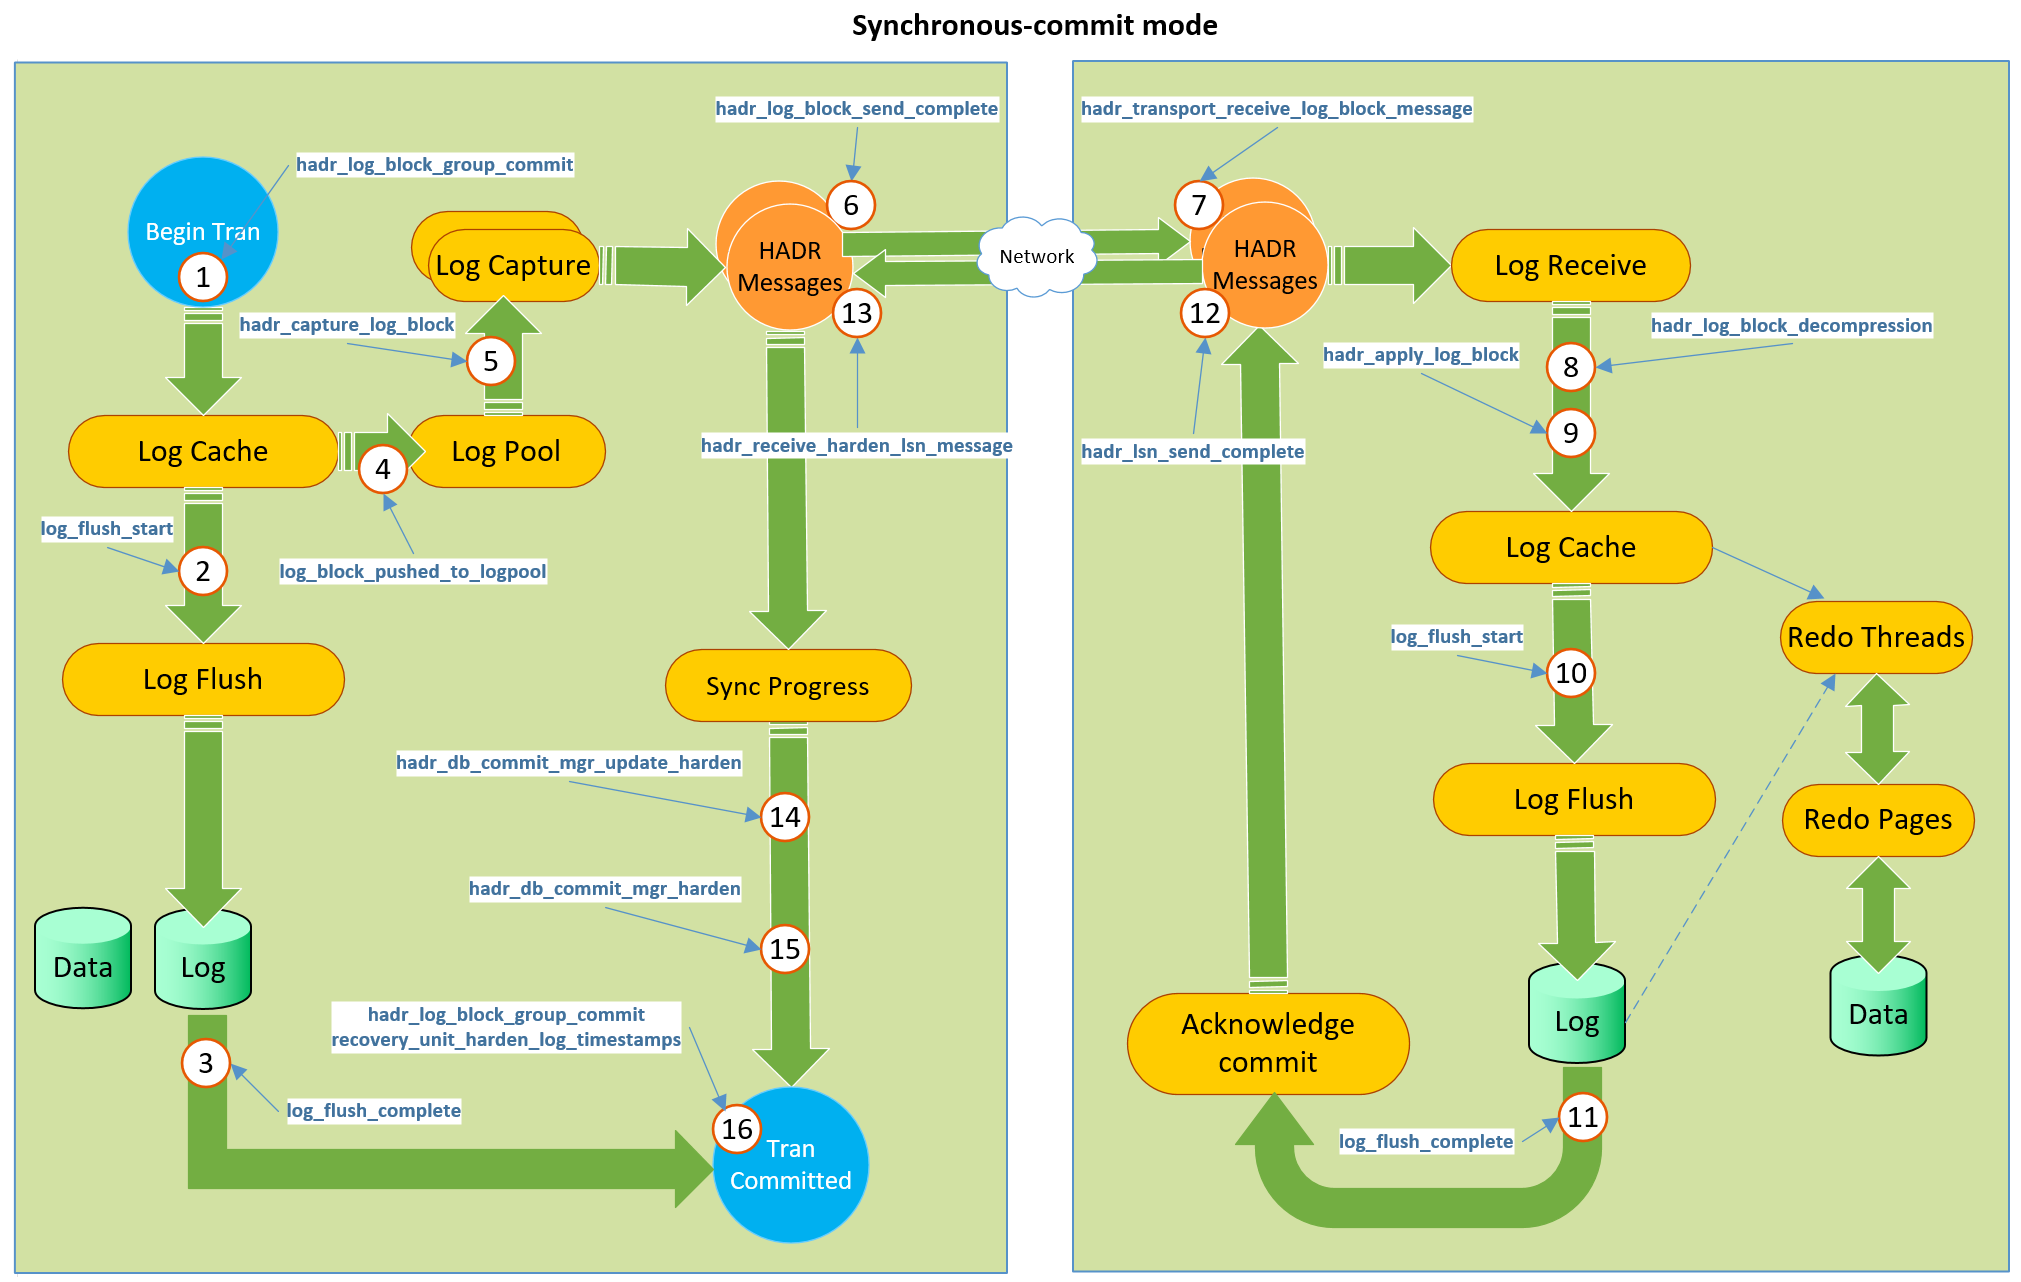
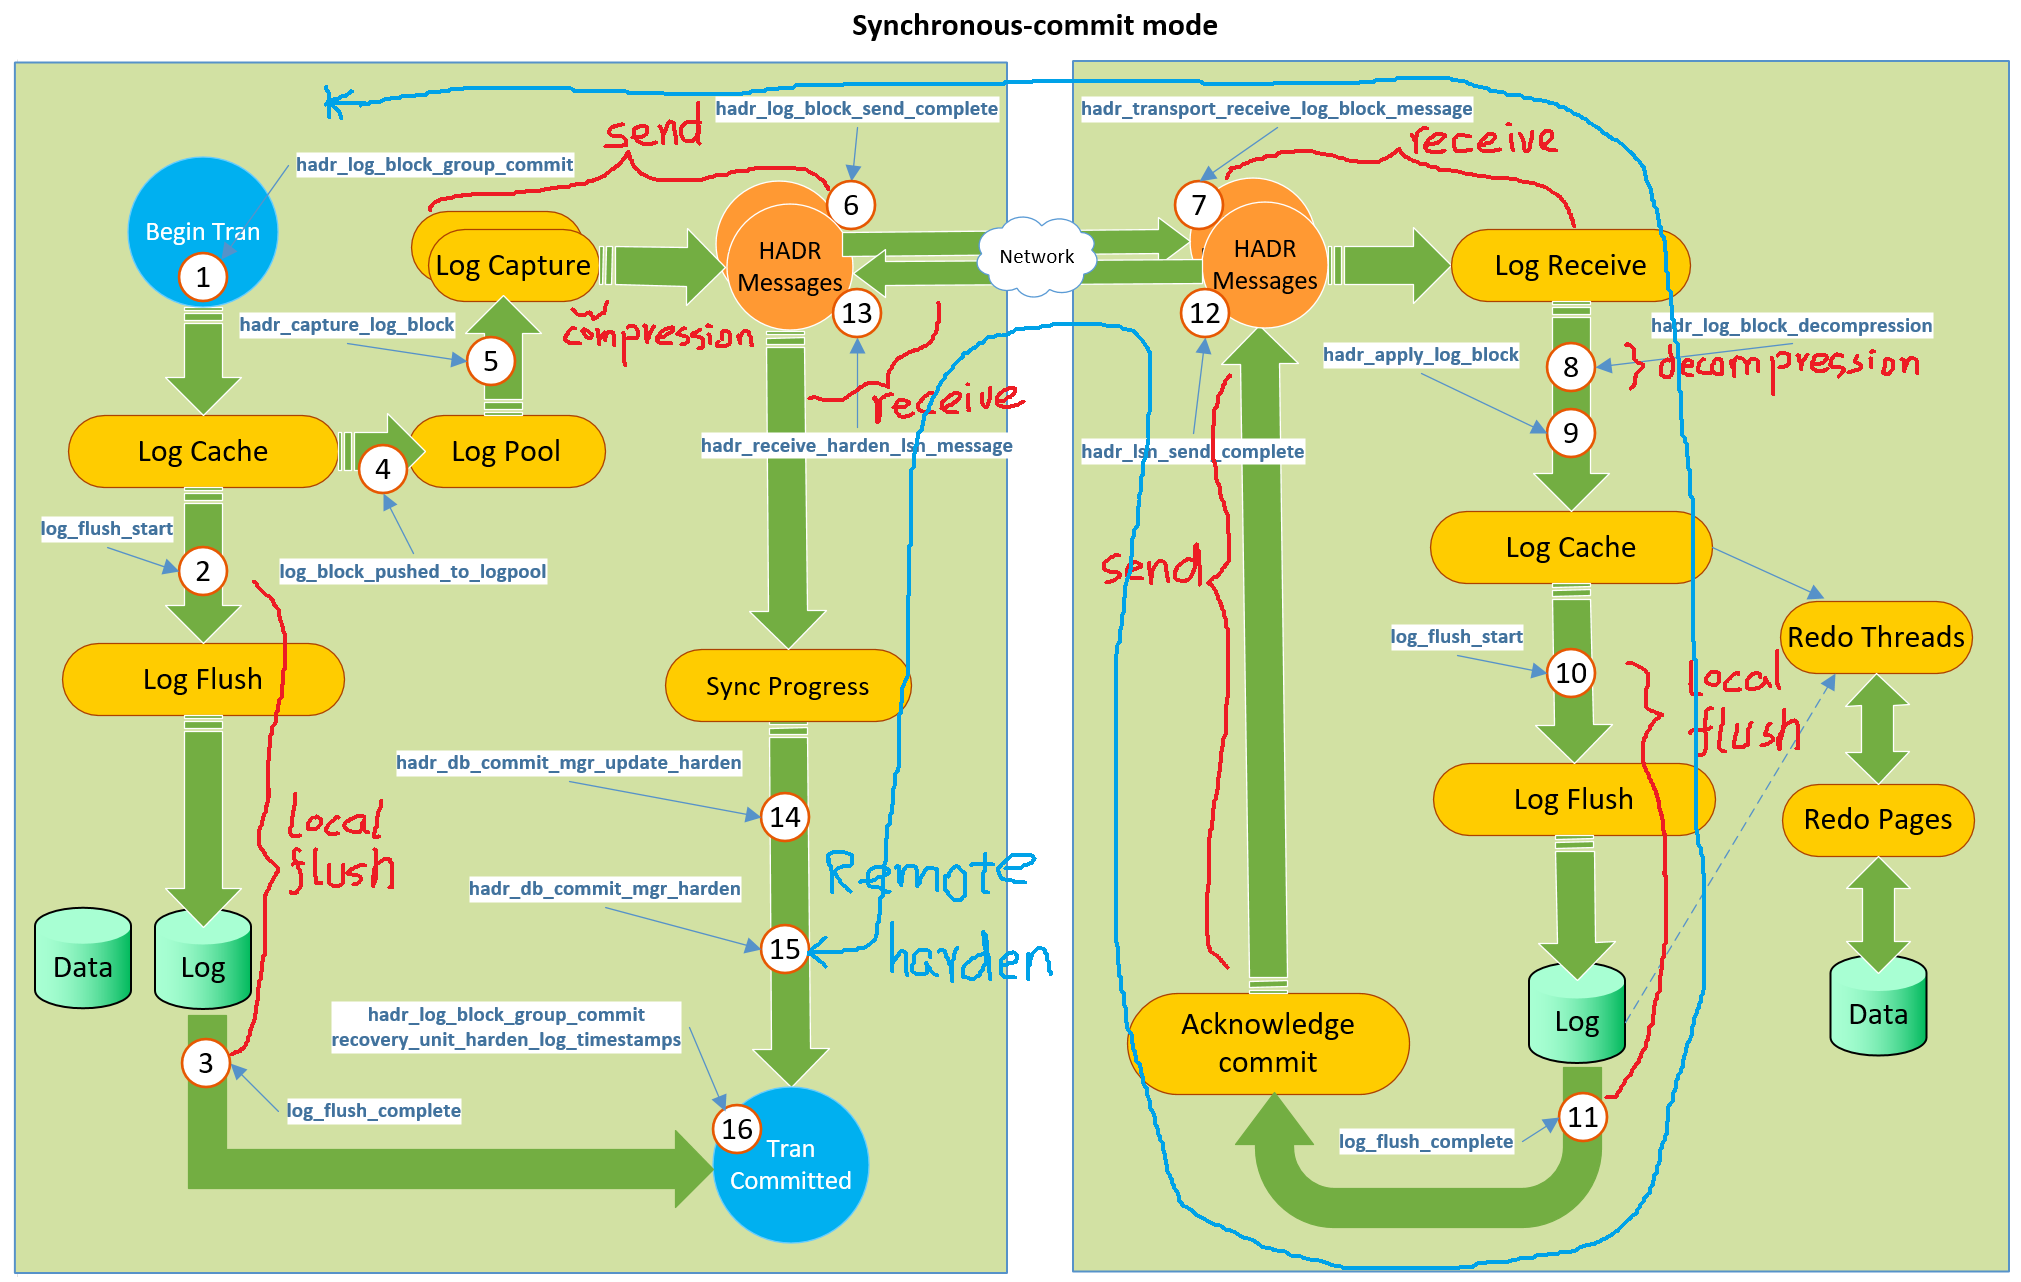
delay picture and its annotation

diff --git a/AGLatency/Pages/AGLatencySummaryPage.cs b/AGLatency/Pages/AGLatencySummaryPage.cs
@@ -3,6 +3,7 @@ using System.Collections.Generic;
 using System.Linq;
 using System.Text;
 using System.Threading.Tasks;
+using System.Web;
 
 namespace AGLatency.Pages
 {
@@ -75,11 +76,25 @@ namespace AGLatency.Pages
             //  return dictChart+ "<br>"+ barChartHtml;
 
             string barJs = Output.HighCharts.GetBarHtml("SummaryBar", "Avg Latency Summary", "", "", "Time (Microsecond)", good);
+            string link = "The terms of the delay here has the same meaning as in below link:<br><a href='https://blogs.msdn.microsoft.com/sql_server_team/new-in-ssms-always-on-availability-group-latency-reports/'>https://blogs.msdn.microsoft.com/sql_server_team/new-in-ssms-always-on-availability-group-latency-reports/</a><br><br>";
 
             string chartHtml = Output.HighCharts.GetChartHtml("Latency charts-Avg Processing Time", "",
               "Time", "Latency (Microsecond)", curlve, "RED",600);
 
-            string AGLatencyImg = "<br><br><hr><span style='color:goldenrod; font-size:150%;'><i class='fa fa-lightbulb-o'></i></span>&nbsp;<b>Explanation</b><br>Below figure shows how the latency is caculated. <br><img src='../images/AGLatency.png' height='600'/>";
+
+            string explain = link+ @"<b>primary->commit time</b>: Avg. Time to commit a transaction on the Primary Replica<br>
+                       <b>remote Harden Time</b>: Time elapsed between sending a log block to a secondary replica and getting the associated harden_lsn message back from the secondary replicas.<br>
+                     <b>secondary->processing time</b>:Time elapsed on the secondary between the log block getting received  and ack lsn sending out completed. This is basically the total time of a log block being processed on secondary.<br><br>
+               So on primary:<br>
+<b>remote Harden time </b>= primary->send +  network wire+ secondary->processing + network wire+ primary->receive +other processing time on primary.<br>
+<b>secondary->processing</b> =secondary:receive + decompression + local flush +  send + other <br>
+<b>primary->Commit</b>= max(primary->local flush, primary->remote harden) <br>
+                    ";
+
+
+            string AGLatencyImg = @"<br><br><hr><span style='color:goldenrod; font-size:150%;'><i class='fa fa-lightbulb-o'></i></span>&nbsp;<b>Annotation</b><br>Below figure shows how the latency is caculated. <br><br>"
++ HttpUtility.JavaScriptStringEncode( explain) +
+"<img src='../images/AG-datamovement.png' height='600'/>";
 
             return barJs+   "<br>" + chartHtml+AGLatencyImg;
         }
